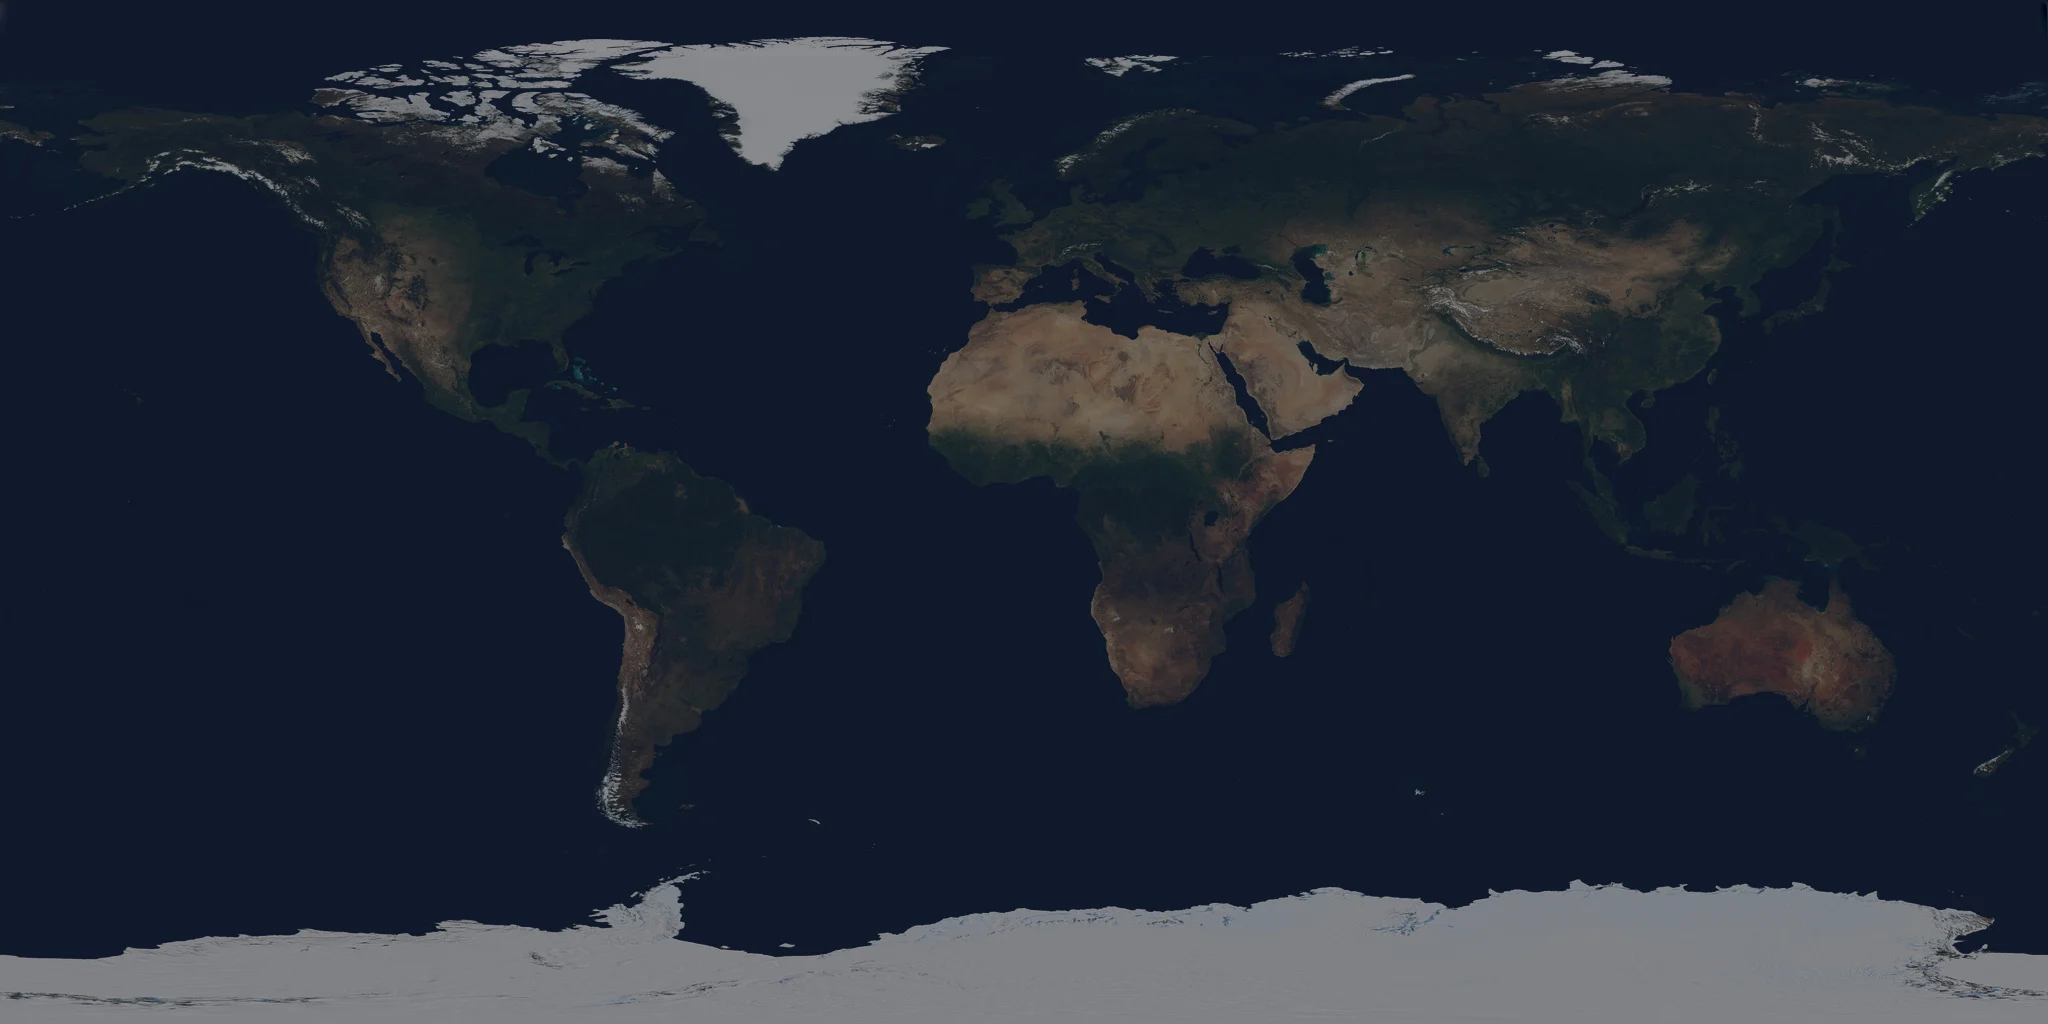
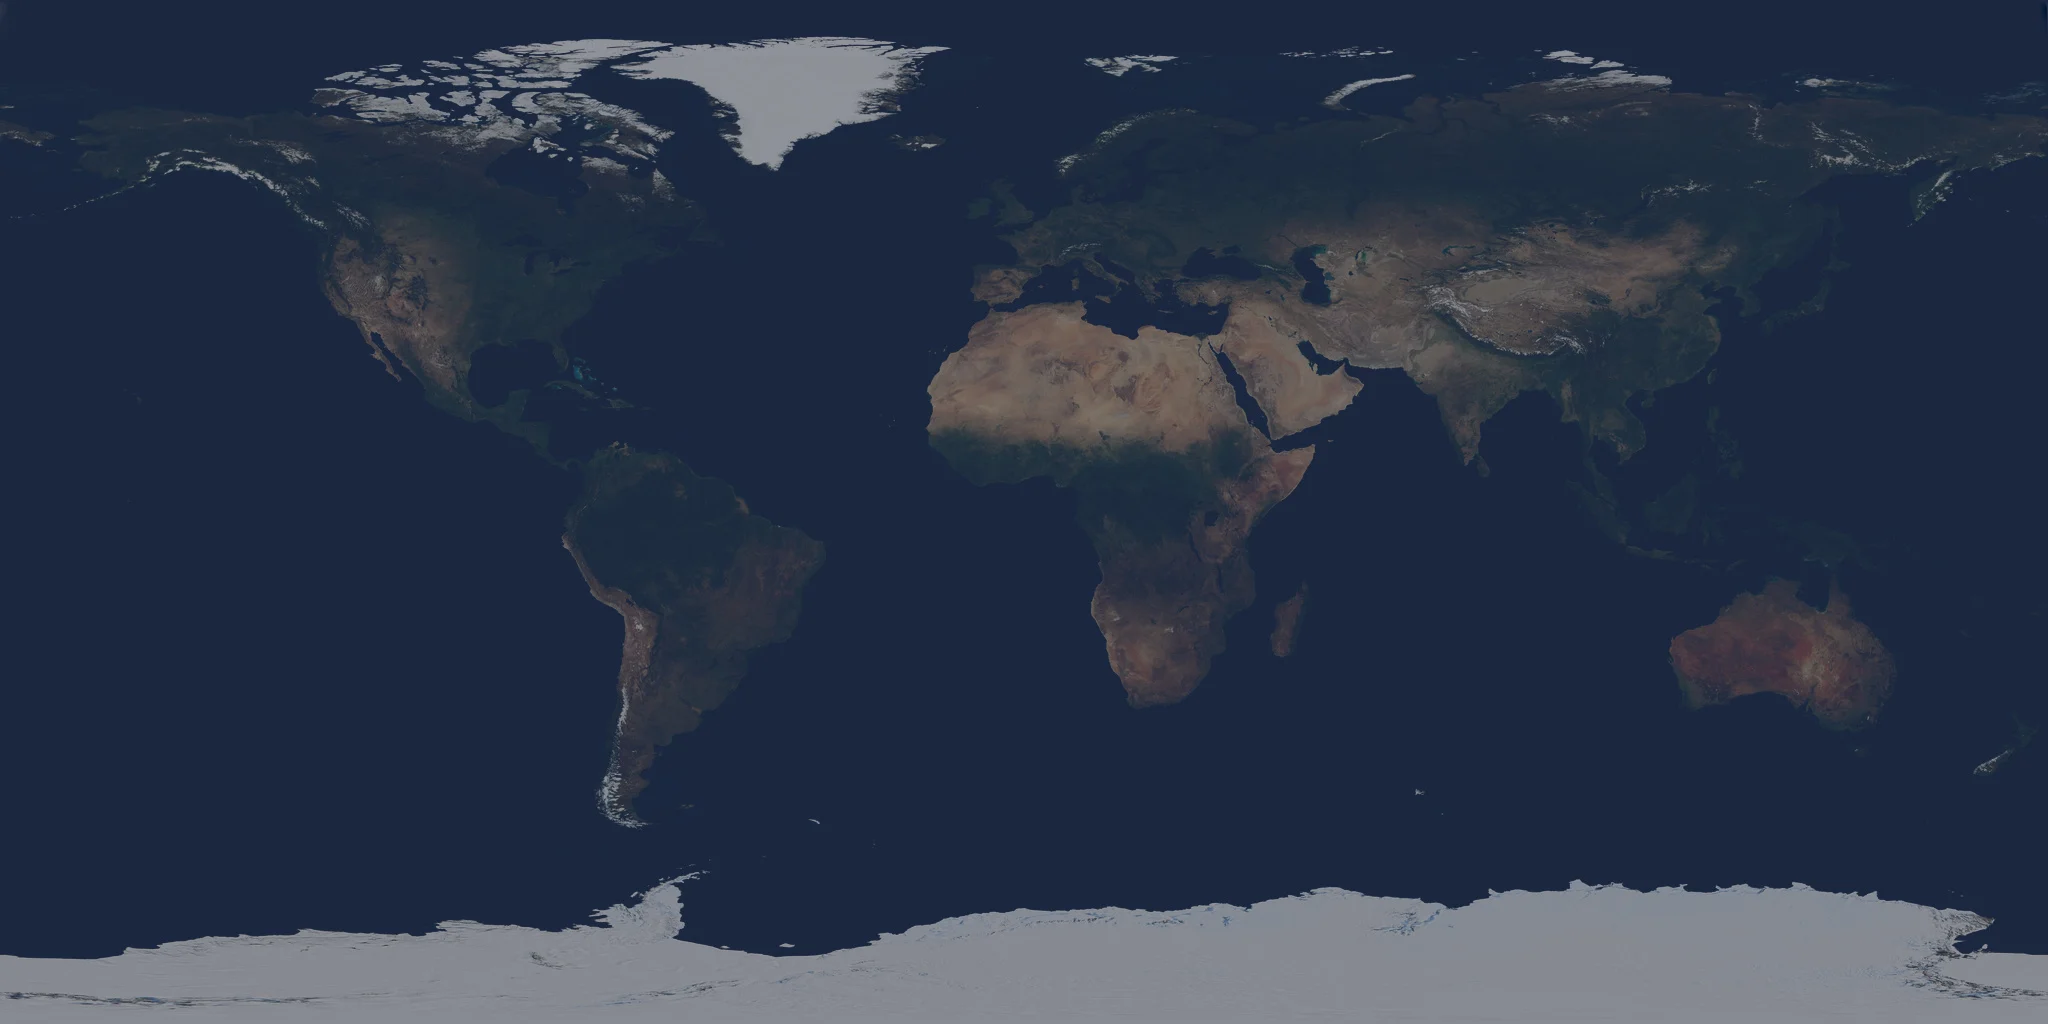
fix(earth): blue oceans under the Blue Marble's clouds
Earth's lit disc read grey-brown (b/g ~1.0) once the studio IBL came off
the bodies. Two causes, both Earth's own:

- The Blue Marble cloud map is display-encoded grey, which NASA
  composites as stored. Uploaded as NoColorSpace, its thin haze (median
  grey 0.24) drew at a quarter opacity in linear light and veiled every
  ocean in warm grey. It is now decoded from sRGB (SRGBColorSpace), so
  the median texel is open sea.
- The map's Rayleigh term was single scattering at nadir (0.375 tau).
  Averaged over the lit disc inside the limb it is about twice that
  against a Lambert surface, so the map takes 0.75 tau: clear ocean's
  blue is now ~0.19 of the cloud tops' (seen from orbit ~0.2; it was 0.1).

With thin cloud transparent, the median texel is ocean, so the albedo
rule now puts Earth's MEAN under its clouds at 0.177 x 0.434 (geometric
albedo is a disc average; the median rule would have needed k 0.48,
cloud tops past the 0.177 x 2 cap). k = 0.2681, the cloud shell's colour.
texelMedianLinear stays 0.0766, so the display curve's knee is unchanged.

SUN_COLOR (sunLight.ts) names the point light's #fff4e0 so the map
tests can light a map as the game does.

diff --git a/tests/bodyMaps.test.ts b/tests/bodyMaps.test.ts
@@ -8,6 +8,7 @@ import path from "node:path";
 import { SOLAR_BODIES, bodyById } from "../src/data/solarSystem";
 import { SOLAR_MOONS } from "../src/data/solarMoons";
 import { packTier } from "../src/utils/packFormat";
+import { SUN_COLOR } from "../src/utils/sunLight";
 import { SOURCES } from "../scripts/textures/fetch_nasa_maps.mjs";
 import { BODY_MAPS } from "../scripts/textures/process_body_maps.mjs";
 
@@ -52,20 +53,44 @@ const lumAt = (data: Buffer, k: number, ch: number) =>
   0.2126 * srgbToLinear(data[k * ch] / 255) + 0.7152 * srgbToLinear(data[k * ch + 1] / 255) + 0.0722 * srgbToLinear(data[k * ch + 2] / 255);
 const median = (a: Float32Array) => a.slice().sort()[a.length >> 1];
 
-/** The linear-luminance texel median of a shipped albedo map; Earth's is measured under its cloud layer, as drawn. */
-async function surfaceMedian(name: string, body: string) {
+const mean = (a: Float32Array) => a.reduce((s, v) => s + v, 0) / a.length;
+
+/**
+ * The cloud shell's opacity at each texel of a w × h map: the cloud map's
+ * grey decoded from sRGB, as SolarBodies uploads it (SRGBColorSpace).
+ */
+async function cloudAlpha(w: number, h: number) {
+  const { data, info } = await sharp(file(CLOUDS.map)).resize(w, h, { fit: "fill" }).greyscale().raw().toBuffer({ resolveWithObject: true });
+  return Float32Array.from({ length: w * h }, (_, k) => srgbToLinear(data[k * info.channels] / 255));
+}
+
+/**
+ * A shipped albedo map's linear-luminance statistic: the texel median, but
+ * for Earth the mean under its cloud layer, as drawn. Geometric albedo is a
+ * disc average, and on a two-tone planet the median texel is open ocean.
+ */
+async function surfaceStat(name: string, body: string) {
   const { data, w, h, ch } = await raw(name);
   const lum = new Float32Array(w * h);
   for (let k = 0; k < w * h; k++) lum[k] = lumAt(data, k, ch);
-  if (body === "earth") {
-    // The cloud shell: colour CLOUDS.linear (linear), alpha the cloud map (stored linear, NoColorSpace).
-    const { data: a, info } = await sharp(file(CLOUDS.map)).resize(w, h, { fit: "fill" }).greyscale().raw().toBuffer({ resolveWithObject: true });
-    for (let k = 0; k < w * h; k++) {
-      const alpha = a[k * info.channels] / 255;
-      lum[k] = lum[k] * (1 - alpha) + CLOUDS.linear * alpha;
-    }
-  }
-  return median(lum);
+  if (body !== "earth") return median(lum);
+  // The cloud shell: colour CLOUDS.linear (linear) over the surface.
+  const alpha = await cloudAlpha(w, h);
+  for (let k = 0; k < w * h; k++) lum[k] = lum[k] * (1 - alpha[k]) + CLOUDS.linear * alpha[k];
+  return mean(lum);
+}
+
+/** The game's sunlight colour, linear RGB (sunLight.ts SUN_COLOR, the point light's colour). */
+const SUN_LINEAR = (() => {
+  const v = parseInt(SUN_COLOR.slice(1), 16);
+  return [(v >> 16) & 255, (v >> 8) & 255, v & 255].map((c) => srgbToLinear(c / 255));
+})();
+
+/** Hue (deg) of an RGB triple. */
+function hueOf([r, g, b]: number[]) {
+  const X = Math.max(r, g, b), N = Math.min(r, g, b);
+  const h = X === r ? 60 * (((g - b) / (X - N)) % 6) : X === g ? 60 * ((b - r) / (X - N) + 2) : 60 * ((r - g) / (X - N) + 4);
+  return h < 0 ? h + 360 : h;
 }
 
 describe("provenance: a pinned NASA/USGS source or a seeded generator for every map", () => {
@@ -119,8 +144,8 @@ describe("honest albedo: 0.177 × geometric (within 3%), dark bodies before the 
       expect(Math.abs(s.stat / (ALBEDO_SCALE * s.albedo) - 1)).toBeLessThan(0.03);
     });
     for (const name of s.hiRes ? [s.map, `${s.map}_4k`] : [s.map]) {
-      it(`${s.id}: ${name}.webp median is within 3% of ${s.stat}${s.id === "earth" ? " (under its clouds)" : ""}`, async () => {
-        const m = await surfaceMedian(name, s.id);
+      it(`${s.id}: ${name}.webp ${s.id === "earth" ? "mean under its clouds" : "median"} is within 3% of ${s.stat}`, async () => {
+        const m = await surfaceStat(name, s.id);
         expect(Math.abs(m / s.stat - 1)).toBeLessThan(0.03);
       });
     }
@@ -149,6 +174,43 @@ describe("honest albedo: 0.177 × geometric (within 3%), dark bodies before the 
       expect(Math.abs(col[2] / col[1] / (sum[2] / sum[1]) - 1), `${b.id} B/G`).toBeLessThan(0.12);
     }
   }, 30_000); // decodes every shipped map; slow on a loaded machine
+});
+
+describe("Earth: blue oceans under white clouds, as from space", () => {
+  /** Linear RGB of every texel of Earth's 2048 map, and the cloud shell's opacity over each. */
+  async function earthTexels() {
+    const { data, w, h, ch } = await raw(EARTH.map);
+    const lin = Float32Array.from({ length: w * h * 3 }, (_, i) => srgbToLinear(data[Math.floor(i / 3) * ch + (i % 3)] / 255));
+    return { lin, alpha: await cloudAlpha(w, h), n: w * h };
+  }
+  const channelMedians = (rgb: number[][]) => rgb.map((c) => median(Float32Array.from(c)));
+
+  // Clear-sky ocean seen from orbit is mostly the Rayleigh sky over it: about
+  // 0.14–0.2 at 450 nm against ~0.7 for thick cloud. The Rayleigh term taken
+  // at nadir alone (0.375 τ) gave a tenth, and the oceans drew near-black.
+  it("the open ocean's blue is a sixth to a third of the cloud tops' (it was a tenth)", async () => {
+    const { lin, n } = await earthTexels();
+    const blue: number[][] = [[], [], []];
+    for (let k = 0; k < n; k++) {
+      const [r, g, b] = [lin[k * 3], lin[k * 3 + 1], lin[k * 3 + 2]];
+      if (b > g && g > r) for (let c = 0; c < 3; c++) blue[c].push(lin[k * 3 + c]);
+    }
+    const ocean = channelMedians(blue);
+    expect(ocean[2] / CLOUDS.linear).toBeGreaterThanOrEqual(1 / 6);
+    expect(ocean[2] / CLOUDS.linear).toBeLessThanOrEqual(1 / 3);
+  });
+
+  // The Blue Marble's cloud map is display-encoded grey, which NASA composites
+  // as stored; drawn in linear light as stored, its thin haze (median grey
+  // 0.24) veiled every ocean in grey. Decoded, the median texel is blue sea.
+  it("in the sunlight, the median colour of its surface under its clouds is blue (hue 205–235°, B/G ≥ 1.2)", async () => {
+    const { lin, alpha, n } = await earthTexels();
+    const m = [0, 1, 2].map((c) => median(Float32Array.from({ length: n },
+      (_, k) => (lin[k * 3 + c] * (1 - alpha[k]) + CLOUDS.linear * alpha[k]) * SUN_LINEAR[c])));
+    expect(hueOf(m)).toBeGreaterThanOrEqual(205);
+    expect(hueOf(m)).toBeLessThanOrEqual(235);
+    expect(m[2] / m[1]).toBeGreaterThanOrEqual(1.2);
+  }, 30_000);
 });
 
 describe("maps: shape, seam and poles", () => {

diff --git a/src/data/solarSystem.ts b/src/data/solarSystem.ts
@@ -23,7 +23,9 @@ import type { BodyId } from "./bodyIds";
  *   (Venus: gen_body_maps.mjs; Saturn, Uranus, Neptune: gen_worlds.mjs).
  *   Each is scaled in linear light to 0.177 × its geometric albedo;
  *   `texelMedianLinear` is the shipped map's measured linear-luminance median
- *   (Earth's under its cloud layer; tests/bodyMaps.test.ts). `color` (the HUD
+ *   (Earth's is the mean under its cloud layer: geometric albedo is a disc
+ *   average, and on a two-tone planet the median texel is open sea;
+ *   tests/bodyMaps.test.ts). `color` (the HUD
  *   swatch, orbit lines and far dots) is the map's mean colour at one brightness.
  */
 /**
@@ -60,7 +62,7 @@ export interface SolarBody {
   texelMedianLinear: number;
   color: string;
   look: {
-    /** A cloud shell: `map` is its alpha (stored linear), `linear` its colour on the scene's albedo scale. */
+    /** A cloud shell: `map` is its opacity (display-encoded grey, decoded from sRGB), `linear` its colour on the scene's albedo scale. */
     clouds?: { map: string; linear: number };
     /** The night-side emissive map. */
     nightLights?: string;
@@ -106,8 +108,8 @@ export const SOLAR_BODIES: readonly SolarBody[] = [
     id: "earth", name: "EARTH", ordinal: "3RD PLANET", diameterKm: 12756.2, flattening: 0.00335,
     obliquityDeg: 23.44, pole: { raDeg: 0, decDeg: 90 }, rotationHours: 23.9345,
     orbit: { kind: "jpl", el: JPL_PLANETS.earth }, geometricAlbedo: 0.434, bondAlbedo: 0.306,
-    map: "earth", mapHiRes: true, texelMedianLinear: 0.0766, color: "#9299ad",
-    look: { clouds: { map: "earth_clouds", linear: 0.2432 }, nightLights: "earth_night", atmosphere: { color: "#6aa8ff", thickness: 1.05, intensity: 1, dusk: "#ff9a5a" } },
+    map: "earth", mapHiRes: true, texelMedianLinear: 0.0766, color: "#8c99b8",
+    look: { clouds: { map: "earth_clouds", linear: 0.2681 }, nightLights: "earth_night", atmosphere: { color: "#6aa8ff", thickness: 1.05, intensity: 1, dusk: "#ff9a5a" } },
     facts: { moons: 1, dayHours: 24, yearDays: 365.256, meanTempC: 15 },
     hint: "the third planet, the blue one, with one Moon",
   }),

diff --git a/src/components/canvas/GlobalCanvas.tsx b/src/components/canvas/GlobalCanvas.tsx
@@ -45,7 +45,7 @@ import SkyBackdrop from "./SkyBackdrop";
 import { flight, useSpaceStore, selectSceneFrozen, worldEventElapsed } from "../../store/spaceStore";
 import { flareLevel } from "../../utils/worldEvents";
 import {
-  SUN_LIGHT_INTENSITY, SUN_FLARE_SWELL, targetExposure, stepExposure, setExposureCompensation,
+  SUN_COLOR, SUN_LIGHT_INTENSITY, SUN_FLARE_SWELL, targetExposure, stepExposure, setExposureCompensation,
   AMBIENT_BASE, applyFill, applyBackdrop, fillLight,
 } from "../../utils/sunLight";
 import DebugBridge from "../../debug/DebugBridge";
@@ -437,7 +437,7 @@ function SunLight() {
       ref.current.intensity = SUN_LIGHT_INTENSITY * (1 + SUN_FLARE_SWELL * flareLevel(worldEventElapsed("flare")));
     }
   });
-  return <pointLight ref={ref} position={[0, 0, 0]} intensity={SUN_LIGHT_INTENSITY} decay={2} color="#fff4e0" />;
+  return <pointLight ref={ref} position={[0, 0, 0]} intensity={SUN_LIGHT_INTENSITY} decay={2} color={SUN_COLOR} />;
 }
 
 /**

diff --git a/src/components/canvas/CloudLayer.tsx b/src/components/canvas/CloudLayer.tsx
@@ -12,9 +12,11 @@ const CLOUD_SHELL = 1.03;
 interface CloudLayerProps {
   radius: number;
   /**
-   * The cloud cover (Earth: NASA's Blue Marble clouds): its grey value is
-   * the shell's opacity, so it must be uploaded without a colour-space
-   * transfer (NoColorSpace).
+   * The cloud cover (Earth: NASA's Blue Marble clouds): its grey, decoded
+   * from sRGB (uploaded as SRGBColorSpace), is the shell's opacity. The grey
+   * is display-encoded cloud brightness, which NASA composites as stored;
+   * taken as a linear opacity, the thin haze (median grey 0.24) drew at a
+   * quarter opacity and veiled the oceans in grey.
    */
   alphaMap: THREE.Texture;
   /** The cloud tops' colour on the scene's albedo scale, linear (solarSystem.ts `look.clouds.linear`). */

diff --git a/src/components/canvas/SolarBodies.tsx b/src/components/canvas/SolarBodies.tsx
@@ -134,8 +134,11 @@ export default function SolarBodies() {
     textures.forEach((tex, i) => {
       if (i === TEX_RING) return; // set up with ringMap
       tex.anisotropy = maxAniso;
-      // The cloud cover is an opacity, not a colour: it stays as stored.
-      tex.colorSpace = i === TEX_CLOUDS ? THREE.NoColorSpace : THREE.SRGBColorSpace;
+      // Every map is display-encoded, the cloud cover too: its grey is The
+      // Blue Marble's cloud brightness, which NASA composites as stored, in
+      // sRGB. Decoded, it is the shell's opacity in linear light; taken as
+      // stored, the thin haze veiled the oceans in grey (CloudLayer.tsx).
+      tex.colorSpace = THREE.SRGBColorSpace;
       tex.needsUpdate = true;
     });
   }, [textures, gl]);

diff --git a/src/utils/displayAlbedo.ts b/src/utils/displayAlbedo.ts
@@ -10,8 +10,8 @@ import { SOLAR_BODIES, bodyById } from "../data/solarSystem";
  * its shipped map (`texelMedianLinear` in SOLAR_BODIES). The output
  * multiplies the body's material colour, a uniform, so no shader changes.
  *
- * - At and above the knee, Earth's own map median (0.0766, measured under
- *   its cloud layer: 0.177 × its geometric albedo 0.434), the gain is 1:
+ * - At and above the knee, Earth's own map statistic (0.0766, its mean
+ *   under its cloud layer: 0.177 × its geometric albedo 0.434), the gain is 1:
  *   Earth, Venus, the giants and the icy Galileans and Triton are drawn as
  *   they are.
  * - Below it a power toe draws albedo a as knee·(a/knee)^γ, so the gain is

diff --git a/src/utils/sunLight.ts b/src/utils/sunLight.ts
@@ -21,6 +21,12 @@ import { AU, SYSTEM_RADIUS } from "../constants";
 export const SUN_IRRADIANCE_AT_AU = 2.1;
 /** The point light's intensity under decay 2 (three: I / d²). */
 export const SUN_LIGHT_INTENSITY = SUN_IRRADIANCE_AT_AU * AU * AU;
+/**
+ * The sunlight's colour, a warm white: every lit surface is its map times
+ * this (B/G × 0.82 in linear light). Maps whose hue matters under it, such as
+ * Uranus's pale cyan, are checked against it (tests/bodyMaps.test.ts).
+ */
+export const SUN_COLOR = "#fff4e0";
 /** A world-event flare lifts the light by this fraction (2.1 → 3.2 before F3). */
 export const SUN_FLARE_SWELL = 1.1 / 2.1;
 

diff --git a/scripts/blender/turntable_bodies.py b/scripts/blender/turntable_bodies.py
@@ -19,9 +19,9 @@
 #     PBR Neutral (the game's NeutralToneMapping);
 #   - the material colour is the dark-surface display curve's gain
 #     (displayAlbedoGain(texelMedianLinear), P3), as SolarBodies sets it;
-#   - Earth's cloud shell (1.03 R): alpha from earth_clouds, colour its
-#     `look.clouds.linear`; its night lights are not drawn (the game masks
-#     them to the night side);
+#   - Earth's cloud shell (1.03 R): alpha from earth_clouds (its grey decoded
+#     from sRGB), colour its `look.clouds.linear`; its night lights are not
+#     drawn (the game masks them to the night side);
 #   - the giants' `look.limb` as a facing-ratio limb darkening; Saturn's
 #     rings take tau from the strip's alpha (tau = A * RING_TAU_MAX): opacity
 #     1 - exp(-tau / |mu|) for the view ray and exp(-tau / mu0) for sunlight.
@@ -257,14 +257,14 @@ def planet_material(w):
 
 
 def cloud_material(clouds):
-    """CloudLayer.tsx: colour `linear`, opacity the cloud map's grey (stored linear)."""
+    """CloudLayer.tsx: colour `linear`, opacity the cloud map's grey decoded from sRGB."""
     mat = bpy.data.materials.new("Clouds")
     mat.use_nodes = True
     nt = mat.node_tree
     nt.nodes.clear()
     out = nt.nodes.new("ShaderNodeOutputMaterial")
     tex = nt.nodes.new("ShaderNodeTexImage")
-    tex.image = image(clouds["map"], non_color=True)
+    tex.image = image(clouds["map"])  # sRGB: Blender decodes it, as SolarBodies does
     dif = nt.nodes.new("ShaderNodeBsdfDiffuse")
     c = clouds["linear"]
     dif.inputs["Color"].default_value = (c, c, c, 1)

diff --git a/docs/UNIVERSE-RULES.md b/docs/UNIVERSE-RULES.md
@@ -52,7 +52,7 @@ a number is not NASA's or the IAU's, it is one of the conventions below.
   shared, order-preserving display curve, so they stay visible; their
   relative order is real (`displayAlbedo.ts`). On a body's median linear
   albedo a (its map's texel median), the curve is the identity at and above a
-  knee of 0.0766 (Earth's map median) and knee·(a/knee)^γ below it, with
+  knee of 0.0766 (Earth's map, measured as its mean under its clouds) and knee·(a/knee)^γ below it, with
   γ ≈ 0.2985, set so that the dimmest mapped body, Ceres (0.016), gets
   exactly 3×. It lifts Ceres 3×, the Moon 2.47×, Mercury 2.17×, Mars 1.93×,
   Callisto 1.79×, Titan 1.63× (Phobos 3.59×, Deimos 3.27×); Earth, Venus, the
